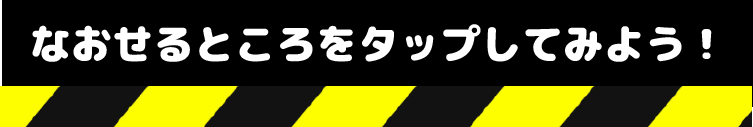
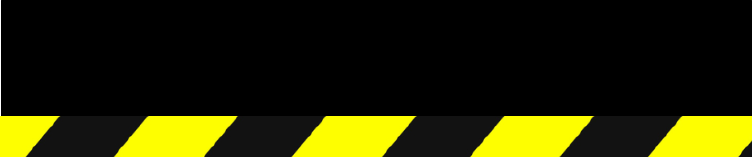
誘導のテキストを追加
素材とテキストを分離

diff --git a/app/assets/stylesheets/minaos.scss b/app/assets/stylesheets/minaos.scss
@@ -156,3 +156,12 @@ footer {
   //bottom: 0; /*一番下に配置*/
   width: 100%;
 }
+
+.information {
+  font-weight: 700; /* bold */
+  font-size: 50px;
+  position: absolute;
+  top: 0;
+  left: 10%;
+  color: white;
+}
